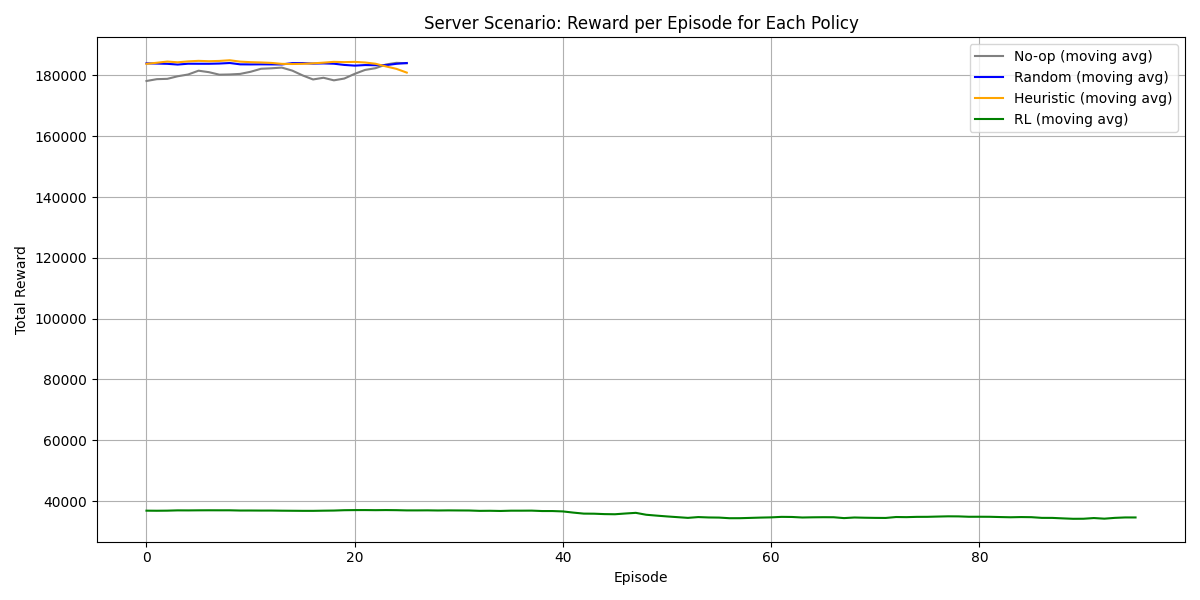
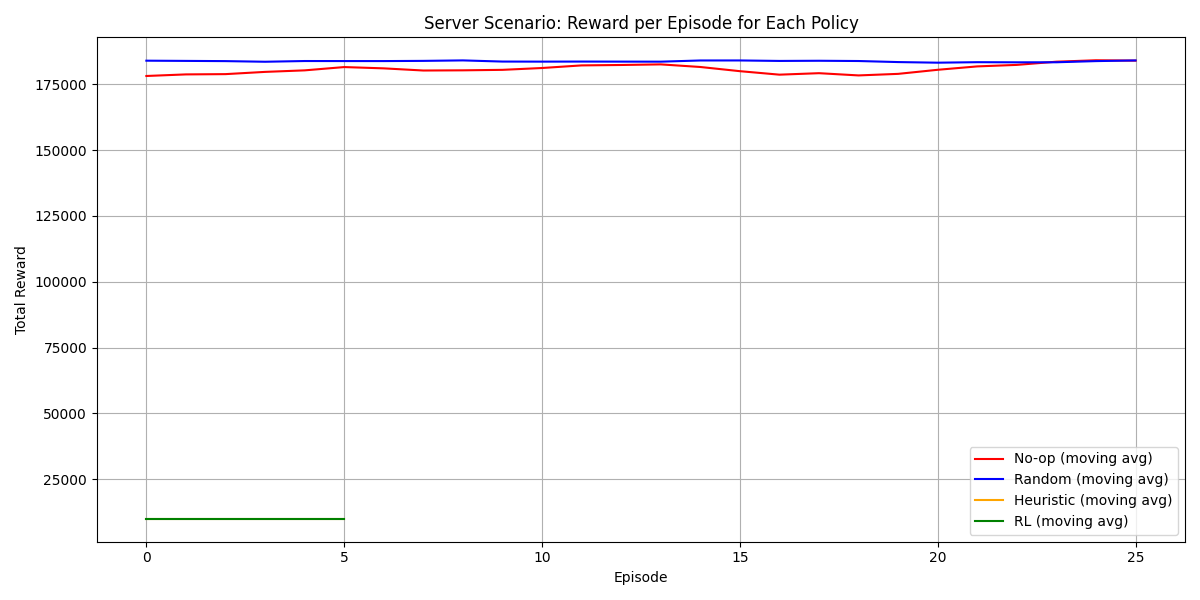
working on 2nd scenario

diff --git a/Second Scenario - Server/heuristic_agent_server.py b/Second Scenario - Server/heuristic_agent_server.py
@@ -1,3 +1,4 @@
+import os
 import time
 import numpy as np
 from agent_server import ServerAgent
@@ -14,13 +15,14 @@ def heuristic_policy(metrics, agent):
         return agent.actions.index("no_op")
     return agent.actions.index("no_op")
 
-def main(num_episodes=30, nb_steps_per_episode=10, sleep_interval=1, return_rewards=False):
+def main(num_episodes=10, nb_steps_per_episode=1, sleep_interval=1, return_rewards=False):
     """Run a heuristic agent on the server environment for a number of episodes."""
     agent = ServerAgent()
     rewards = []
     for episode in range(num_episodes):
         print(f"\n=== Episode {episode+1} / {num_episodes} ===")
         reset_sys_params()
+        previous_actions = []
         requests_per_sec, latency, p99, _ = run_wrk(duration=2)
         state = agent.get_state(collect_metrics(requests_per_sec))
         total_reward = 0
@@ -28,17 +30,21 @@ def main(num_episodes=30, nb_steps_per_episode=10, sleep_interval=1, return_rewa
             metrics = collect_metrics(requests_per_sec)
             metrics["latency"] = latency  
             action_idx = heuristic_policy(metrics, agent)
-            print(f"Applying no-op action: {action_idx}")
+            print("Applying action:", agent.actions[action_idx])
             agent.apply_action(action_idx)
             requests_per_sec, latency, p99, _ = run_wrk(duration=2)
             next_state = agent.get_state(collect_metrics(requests_per_sec))
             metrics = collect_metrics(requests_per_sec)
             reward = agent.compute_reward(metrics, latency=latency, p99=p99)
+            penalty_factor = agent.penalize_consecutive_actions(action_idx, previous_actions)
+            reward *= penalty_factor
+            previous_actions.append(action_idx)
             total_reward += reward
             state = next_state
             time.sleep(sleep_interval)
         rewards.append(total_reward)
         print(f"Episode {episode+1}: total reward = {total_reward:.2f}")
+    os.makedirs("Second Scenario - Server/rewards", exist_ok=True)
     np.save("Second Scenario - Server/rewards/rewards_heuristic_server.npy", np.array(rewards))
     if return_rewards:
         return rewards

diff --git a/Second Scenario - Server/no_op_policy_server.py b/Second Scenario - Server/no_op_policy_server.py
@@ -1,3 +1,4 @@
+import os
 import time
 import numpy as np
 from agent_server import ServerAgent
@@ -11,22 +12,27 @@ def main(num_episodes=30, nb_steps_per_episode=10, sleep_interval=1, return_rewa
     for episode in range(num_episodes):
         print(f"\n=== Episode {episode+1} / {num_episodes} ===")
         reset_sys_params()
+        previous_actions = []
         requests_per_sec, latency, p99, _ = run_wrk(duration=2)
         state = agent.get_state(collect_metrics(requests_per_sec))
         total_reward = 0
         for step in range(nb_steps_per_episode):
             action_idx = agent.actions.index("no_op")
-            print(f"Applying no-op action: {action_idx}")
+            print(f"Applying action: {agent.actions[action_idx]}")
             agent.apply_action(action_idx)
             requests_per_sec, latency, p99, _ = run_wrk(duration=2)
             next_state = agent.get_state(collect_metrics(requests_per_sec))
             metrics = collect_metrics(requests_per_sec)
             reward = agent.compute_reward(metrics, latency=latency, p99=p99)
+            penalty_factor = agent.penalize_consecutive_actions(action_idx, previous_actions)
+            reward *= penalty_factor
+            previous_actions.append(action_idx)
             total_reward += reward
             state = next_state
             time.sleep(sleep_interval)
         rewards.append(total_reward)
         print(f"Episode {episode+1}: total reward = {total_reward:.2f}")
+    os.makedirs("Second Scenario - Server/rewards", exist_ok=True)
     np.save("Second Scenario - Server/rewards/rewards_noop_server.npy", np.array(rewards))
     if return_rewards:
         return rewards

diff --git a/Second Scenario - Server/random_agent_server.py b/Second Scenario - Server/random_agent_server.py
@@ -1,3 +1,4 @@
+import os
 import time
 import numpy as np
 from agent_server import ServerAgent
@@ -11,22 +12,26 @@ def main(num_episodes=30, nb_steps_per_episode=10, sleep_interval=1, return_rewa
     for episode in range(num_episodes):
         print(f"\n=== Episode {episode+1} / {num_episodes} ===")
         reset_sys_params()
+        previous_actions = []
         requests_per_sec, latency, p99, _ = run_wrk(duration=2)
         state = agent.get_state(collect_metrics(requests_per_sec))
         total_reward = 0
         for step in range(nb_steps_per_episode):
             action_idx = np.random.randint(len(agent.actions))
-            print(f"Applying no-op action: {action_idx}")
             agent.apply_action(action_idx)
             requests_per_sec, latency, p99, _ = run_wrk(duration=2)
             next_state = agent.get_state(collect_metrics(requests_per_sec))
             metrics = collect_metrics(requests_per_sec)
             reward = agent.compute_reward(metrics, latency=latency, p99=p99)
+            penalty_factor = agent.penalize_consecutive_actions(action_idx, previous_actions)
+            reward *= penalty_factor
+            previous_actions.append(action_idx)
             total_reward += reward
             state = next_state
             time.sleep(sleep_interval)
         rewards.append(total_reward)
         print(f"Episode {episode+1}: total reward = {total_reward:.2f}")
+    os.makedirs("Second Scenario - Server/rewards", exist_ok=True)
     np.save("Second Scenario - Server/rewards/rewards_random_server.npy", np.array(rewards))
     if return_rewards:
         return rewards

diff --git a/Second Scenario - Server/train_server_agent.py b/Second Scenario - Server/train_server_agent.py
@@ -105,7 +105,6 @@ def run_episode(agent, nb_steps_per_episode, sleep_interval, previous_actions):
         next_state = agent.get_state(collect_metrics(requests_per_sec))
         metrics = collect_metrics(requests_per_sec)
         reward = agent.compute_reward(metrics, latency=latency, p99=p99)
-
         penalty_factor = agent.penalize_consecutive_actions(action_idx, previous_actions)
         reward *= penalty_factor
         previous_actions.append(action_idx)
@@ -155,7 +154,7 @@ def plot_rewards(rewards, plots_dir):
     plt.savefig(plot_path)
     print(f"Plot saved as {plot_path}")
 
-def train_agent(num_episodes=100, nb_steps_per_episode=10, sleep_interval=1, return_rewards=False, exploration_rate=1.0):
+def train_agent(num_episodes=2, nb_steps_per_episode=1, sleep_interval=1, return_rewards=False, exploration_rate=1.0):
     agent = ServerAgent(exploration_rate=exploration_rate)
     qtable_path = "Second Scenario - Server/q_table_server.npy"
     rewards_dir = "Second Scenario - Server/rewards"

diff --git a/Second Scenario - Server/agent_server.py b/Second Scenario - Server/agent_server.py
@@ -142,7 +142,6 @@ class ServerAgent:
         if latency is not None:
             latency_factor = max(0, 1 - (latency / 100)) 
             rps_reward *= latency_factor
-
         # Pénalités plus douces
         cpu_penalty = np.exp(cpu - 90) * 5 if cpu > 90 else cpu * 0.5 
         io_penalty = iowait * (50 if iowait > 5 else 10)
@@ -156,8 +155,6 @@ class ServerAgent:
             - ctx_penalty 
             - int_penalty
         )
-
-        reward = np.clip(reward, -10000, 10000)
 
         if debug:
             print("\n=== Reward Calculation Details ===")
